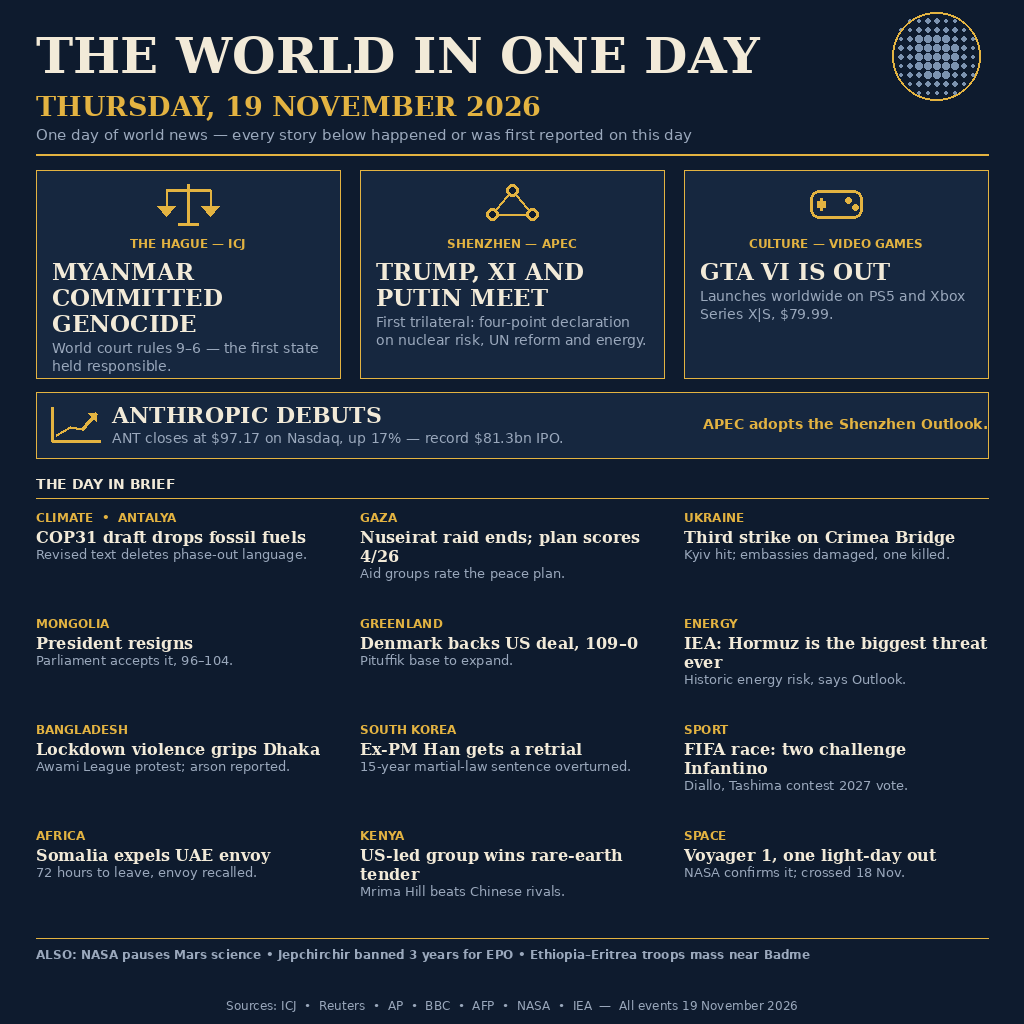
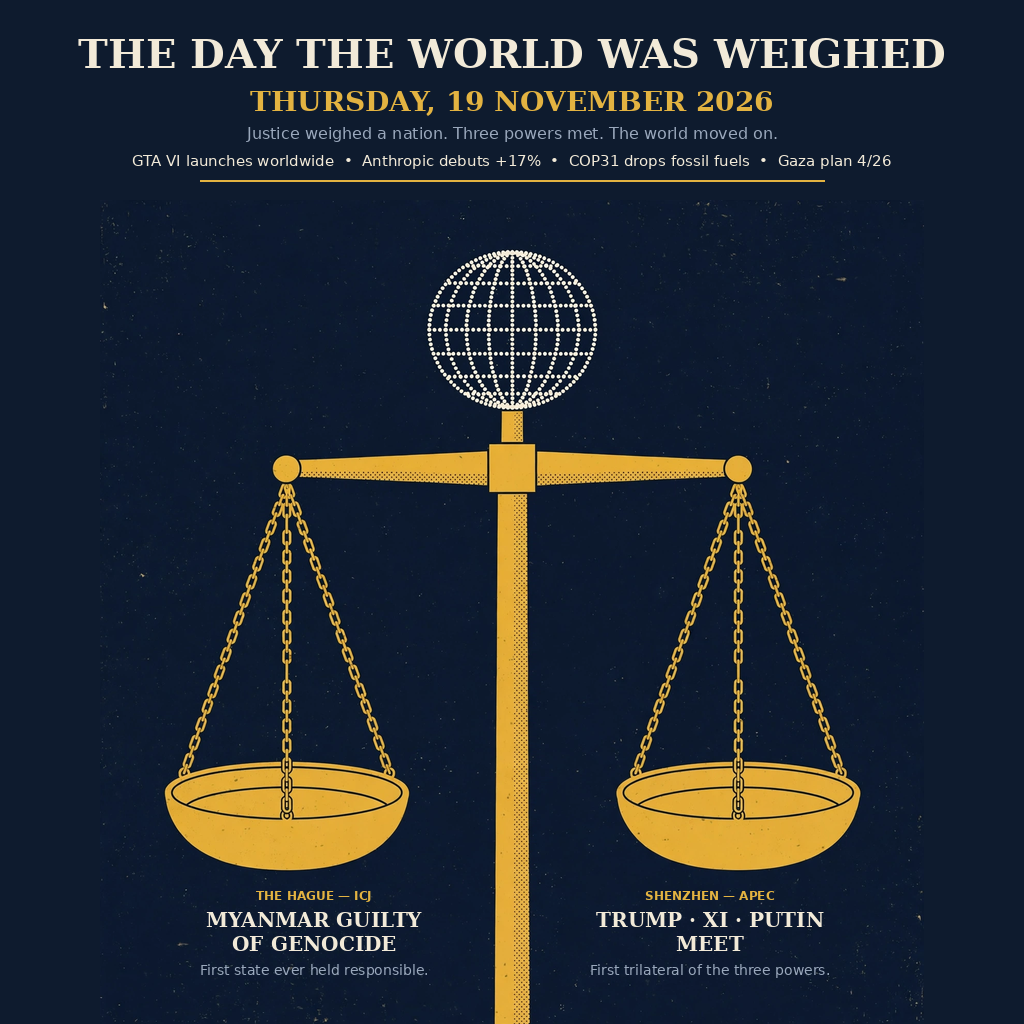
v4 illustrated poster: generated scales art + deterministic composite

Changed region(s): [[0.0312, 0.0, 0.9688, 1.0], [0.2188, 0.3125, 0.3125, 0.3438], [0.4062, 0.9688, 0.4375, 1.0]]

diff --git a/render_v3.py b/render_v3.py
@@ -1,0 +1,154 @@
+#!/usr/bin/env python3
+"""Render v3 of the 19 November 2026 image — 'The Balance'.
+
+A poster, not a page. One monumental scales of justice pivoting on a
+halftone globe, a gold 9–6 medallion at the pivot: the day the world was
+weighed — in court (ICJ genocide verdict) and in a summit room (the first
+Trump–Xi–Putin trilateral). Everything else is two pan labels and two
+supporting lines. ~55 words total. No boxes, no grid, no cards, no columns.
+
+All visuals are hand-coded vector geometry (no stock, no AI imagery, no
+faces, no glow). Palette: ink navy + one gold accent, cream text.
+Deterministic: no network, no clock, no randomness.
+Run: python3 render_v3.py  ->  writes entry.png next to this file.
+"""
+import math
+import os
+from PIL import Image, ImageDraw, ImageFont
+
+W, H = 1024, 1024
+NAVY = (14, 27, 46)
+CREAM = (242, 234, 216)
+MUTED = (154, 168, 188)
+GOLD = (227, 179, 65)
+DOT = (124, 147, 176)
+
+SERIF_B = "/usr/share/fonts/truetype/dejavu/DejaVuSerif-Bold.ttf"
+SANS_B = "/usr/share/fonts/truetype/dejavu/DejaVuSans-Bold.ttf"
+SANS = "/usr/share/fonts/truetype/dejavu/DejaVuSans.ttf"
+
+
+def font(path, size):
+    return ImageFont.truetype(path, size)
+
+
+def halftone_globe(draw, cx, cy, r):
+    """A sphere built from dots — dense at the centre, sparse at the rim."""
+    step = 8
+    for gy in range(cy - r, cy + r + 1, step):
+        for gx in range(cx - r, cx + r + 1, step):
+            d = math.hypot(gx - cx, gy - cy) / r
+            if d >= 1:
+                continue
+            rad = 1.0 + 3.0 * (1 - d * d)
+            draw.ellipse([gx - rad, gy - rad, gx + rad, gy + rad], fill=DOT)
+    draw.ellipse([cx - r, cy - r, cx + r, cy + r], outline=GOLD, width=2)
+
+
+def rotated_rect(draw, cx, cy, angle_deg, length, width, fill):
+    a = math.radians(angle_deg)
+    dx, dy = math.cos(a), math.sin(a)
+    px, py = -dy, dx
+    hl, hw = length / 2, width / 2
+    pts = [(cx + dx * hl + px * hw, cy + dy * hl + py * hw),
+           (cx + dx * hl - px * hw, cy + dy * hl - py * hw),
+           (cx - dx * hl - px * hw, cy - dy * hl - py * hw),
+           (cx - dx * hl + px * hw, cy - dy * hl + py * hw)]
+    draw.polygon(pts, fill=fill)
+
+
+def icon_gavel(draw, cx, cy, col=NAVY):
+    # horizontal gavel: block head, handle down, end knob
+    draw.rounded_rectangle([cx - 32, cy - 18, cx + 32, cy - 2], radius=4,
+                           fill=col)
+    draw.line([(cx, cy - 2), (cx, cy + 26)], fill=col, width=6)
+    draw.ellipse([cx - 4, cy + 24, cx + 4, cy + 32], fill=col)
+
+
+def icon_nodes(draw, cx, cy, col=NAVY):
+    pts = [(cx - 24, cy + 8), (cx + 24, cy + 8), (cx, cy - 20)]
+    for a in range(3):
+        for b in range(a + 1, 3):
+            draw.line([pts[a], pts[b]], fill=col, width=3)
+    for (px, py) in pts:
+        draw.ellipse([px - 9, py - 9, px + 9, py + 9], outline=col,
+                     width=3, fill=GOLD)
+
+
+def pan(draw, cx, rim_y, half_w=90, depth=60):
+    """A hanging pan: chains fanning from the beam to a gold half-disc."""
+    bbox = [cx - half_w, rim_y - depth, cx + half_w, rim_y + depth]
+    for ex in (cx - half_w + 20, cx, cx + half_w - 20):
+        draw.line([(cx, 330), (ex, rim_y)], fill=GOLD, width=3)
+    draw.chord(bbox, 0, 180, fill=GOLD, outline=NAVY, width=2)
+
+
+def centered(draw, cx, y, text, fnt, fill=CREAM):
+    draw.text((cx, y), text, font=fnt, fill=fill, anchor="ma")
+
+
+def main():
+    img = Image.new("RGB", (W, H), NAVY)
+    d = ImageDraw.Draw(img)
+
+    # ---- Title, date, concept line ----
+    centered(d, 512, 40, "THE DAY THE WORLD WAS WEIGHED",
+             font(SERIF_B, 42))
+    centered(d, 512, 96, "THURSDAY, 19 NOVEMBER 2026",
+             font(SERIF_B, 30), fill=GOLD)
+    centered(d, 512, 140,
+             "Justice weighed a nation. Three powers met. The world moved on.",
+             font(SANS, 16), fill=MUTED)
+
+    # ---- Globe finial ----
+    halftone_globe(d, 512, 215, 34)
+
+    # ---- Post, beam, medallion ----
+    d.rectangle([507, 249, 517, 790], fill=GOLD)
+    d.line([(170, 330), (854, 330)], fill=GOLD, width=8)
+    for ex in (170, 854):
+        d.ellipse([ex - 8, 322, ex + 8, 338], fill=GOLD)
+    d.ellipse([512 - 46, 330 - 46, 512 + 46, 330 + 46], fill=GOLD)
+    d.text((512, 330), "9–6", font=font(SERIF_B, 32), fill=NAVY,
+           anchor="mm")
+
+    # ---- Pans + icons ----
+    pan(d, 170, 580)
+    pan(d, 854, 580)
+    icon_gavel(d, 170, 612)
+    icon_nodes(d, 854, 612)
+
+    # ---- Stepped base ----
+    d.polygon([(468, 790), (556, 790), (574, 812), (450, 812)], fill=GOLD)
+    d.line([(430, 812), (594, 812)], fill=GOLD, width=3)
+
+    # ---- Pan labels ----
+    for cx, kick, h1, h2, deck in (
+            (170, "THE HAGUE — ICJ", "MYANMAR GUILTY", "OF GENOCIDE",
+             "First state ever held responsible."),
+            (854, "SHENZHEN — APEC", "TRUMP · XI · PUTIN", "MEET",
+             "First trilateral of the three powers.")):
+        centered(d, cx, 656, kick, font(SANS_B, 12), fill=GOLD)
+        centered(d, cx, 676, h1, font(SERIF_B, 20))
+        centered(d, cx, 700, h2, font(SERIF_B, 20))
+        centered(d, cx, 730, deck, font(SANS, 14), fill=MUTED)
+
+    # ---- Supporting lines ----
+    d.line([(200, 850), (824, 850)], fill=GOLD, width=2)
+    centered(d, 512, 870,
+             "GTA VI launches worldwide  •  Anthropic debuts on Nasdaq, +17%",
+             font(SANS, 16))
+    centered(d, 512, 902,
+             "COP31 draft drops fossil fuels  •  Gaza peace plan scores 4/26",
+             font(SANS, 16))
+    centered(d, 512, 984,
+             "All events 19 November 2026 — ICJ  •  Reuters  •  AP  •  BBC  •  AFP  •  NASA  •  IEA",
+             font(SANS, 12), fill=MUTED)
+
+    out = os.path.join(os.path.dirname(os.path.abspath(__file__)), "entry.png")
+    img.save(out, format="PNG", optimize=True)
+    print("wrote", out, img.size, os.path.getsize(out), "bytes")
+
+
+if __name__ == "__main__":
+    main()

diff --git a/compose_v4.py b/compose_v4.py
@@ -1,0 +1,75 @@
+#!/usr/bin/env python3
+"""Composite v4 of the 19 November 2026 image — 'The Balance' (illustrated).
+
+Base art: an original flat editorial illustration generated in-session
+(illustrations/media-generation-balance-*.png — golden scales of justice
+with a dotted-globe finial, navy + gold + cream, no text). This script
+scales it to 824x824, pastes it on a navy canvas, and typesets the
+headline, date and labels deterministically with Pillow/DejaVu — so every
+word is sharp and factually exact.
+
+Deterministic: same art + same script = same bytes (no network, clock,
+randomness). Run: python3 compose_v4.py -> writes entry.png next to it.
+"""
+import os
+from PIL import Image, ImageDraw, ImageFont
+
+W, H = 1024, 1024
+NAVY = (14, 27, 46)
+CREAM = (242, 234, 216)
+MUTED = (154, 168, 188)
+GOLD = (227, 179, 65)
+
+SERIF_B = "/usr/share/fonts/truetype/dejavu/DejaVuSerif-Bold.ttf"
+SANS_B = "/usr/share/fonts/truetype/dejavu/DejaVuSans-Bold.ttf"
+SANS = "/usr/share/fonts/truetype/dejavu/DejaVuSans.ttf"
+
+
+def font(path, size):
+    return ImageFont.truetype(path, size)
+
+
+def centered(draw, cx, y, text, fnt, fill=CREAM):
+    draw.text((cx, y), text, font=fnt, fill=fill, anchor="ma")
+
+
+def main():
+    here = os.path.dirname(os.path.abspath(__file__))
+    art_path = os.path.join(here, "illustrations", "balance.png")
+    art = Image.open(art_path).convert("RGB").resize((824, 824),
+                                                     Image.LANCZOS)
+    img = Image.new("RGB", (W, H), NAVY)
+    img.paste(art, (100, 200))
+    d = ImageDraw.Draw(img)
+
+    # ---- Top band: title, date, concept, supporting line ----
+    centered(d, 512, 30, "THE DAY THE WORLD WAS WEIGHED",
+             font(SERIF_B, 40))
+    centered(d, 512, 84, "THURSDAY, 19 NOVEMBER 2026",
+             font(SERIF_B, 28), fill=GOLD)
+    centered(d, 512, 124,
+             "Justice weighed a nation. Three powers met. The world moved on.",
+             font(SANS, 16), fill=MUTED)
+    centered(d, 512, 152,
+             "GTA VI launches worldwide  •  Anthropic debuts +17%  •  COP31 drops fossil fuels  •  Gaza plan 4/26",
+             font(SANS, 15))
+    d.line([(200, 180), (824, 180)], fill=GOLD, width=2)
+
+    # ---- Pan labels (pan centres measured: 314 and 710 in the composite) ----
+    for cx, kick, h1, h2, deck in (
+            (314, "THE HAGUE — ICJ", "MYANMAR GUILTY", "OF GENOCIDE",
+             "First state ever held responsible."),
+            (710, "SHENZHEN — APEC", "TRUMP · XI · PUTIN", "MEET",
+             "First trilateral of the three powers.")):
+        centered(d, cx, 888, kick, font(SANS_B, 12), fill=GOLD)
+        centered(d, cx, 908, h1, font(SERIF_B, 20))
+        centered(d, cx, 932, h2, font(SERIF_B, 20))
+        centered(d, cx, 962, deck, font(SANS, 14), fill=MUTED)
+
+    out = os.path.join(here, "entry.png")
+    img.save(out, format="PNG", optimize=True)
+    print("wrote", out, img.size, os.path.getsize(out), "bytes")
+
+
+if __name__ == "__main__":
+    main()

diff --git a/README.md b/README.md
@@ -10,7 +10,7 @@ Lead stories: the International Court of Justice rules 9–6 that Myanmar commit
 
 ## How it was made
 
-`render_v2.py` draws the front page deterministically with Pillow and DejaVu fonts (no network, no clock, no randomness): masthead with a halftone globe, three illustrated lead panels (scales of justice, three-node summit, gamepad), a markets strip, and a 12-story grid — the "Night Desk" system: deep ink-navy paper, a single gold accent, every visual hand-coded vector geometry. `render.py` is the v1 generator (cream broadsheet, superseded). `main.ts` copies the rendered `entry.png` to the output directory.
+`compose_v4.py` builds the front page deterministically: it scales the original flat editorial illustration in `illustrations/balance.png` (golden scales of justice with a dotted-globe finial, generated in-session, no text) and typesets the headline, date and labels with Pillow and DejaVu fonts (no network, no clock, no randomness). `render_v3.py` is the earlier hand-drawn vector version, `render_v2.py` the dark front page, `render.py` the v1 broadsheet — all superseded. `main.ts` copies the rendered `entry.png` to the output directory.
 
 ## Run it
 
